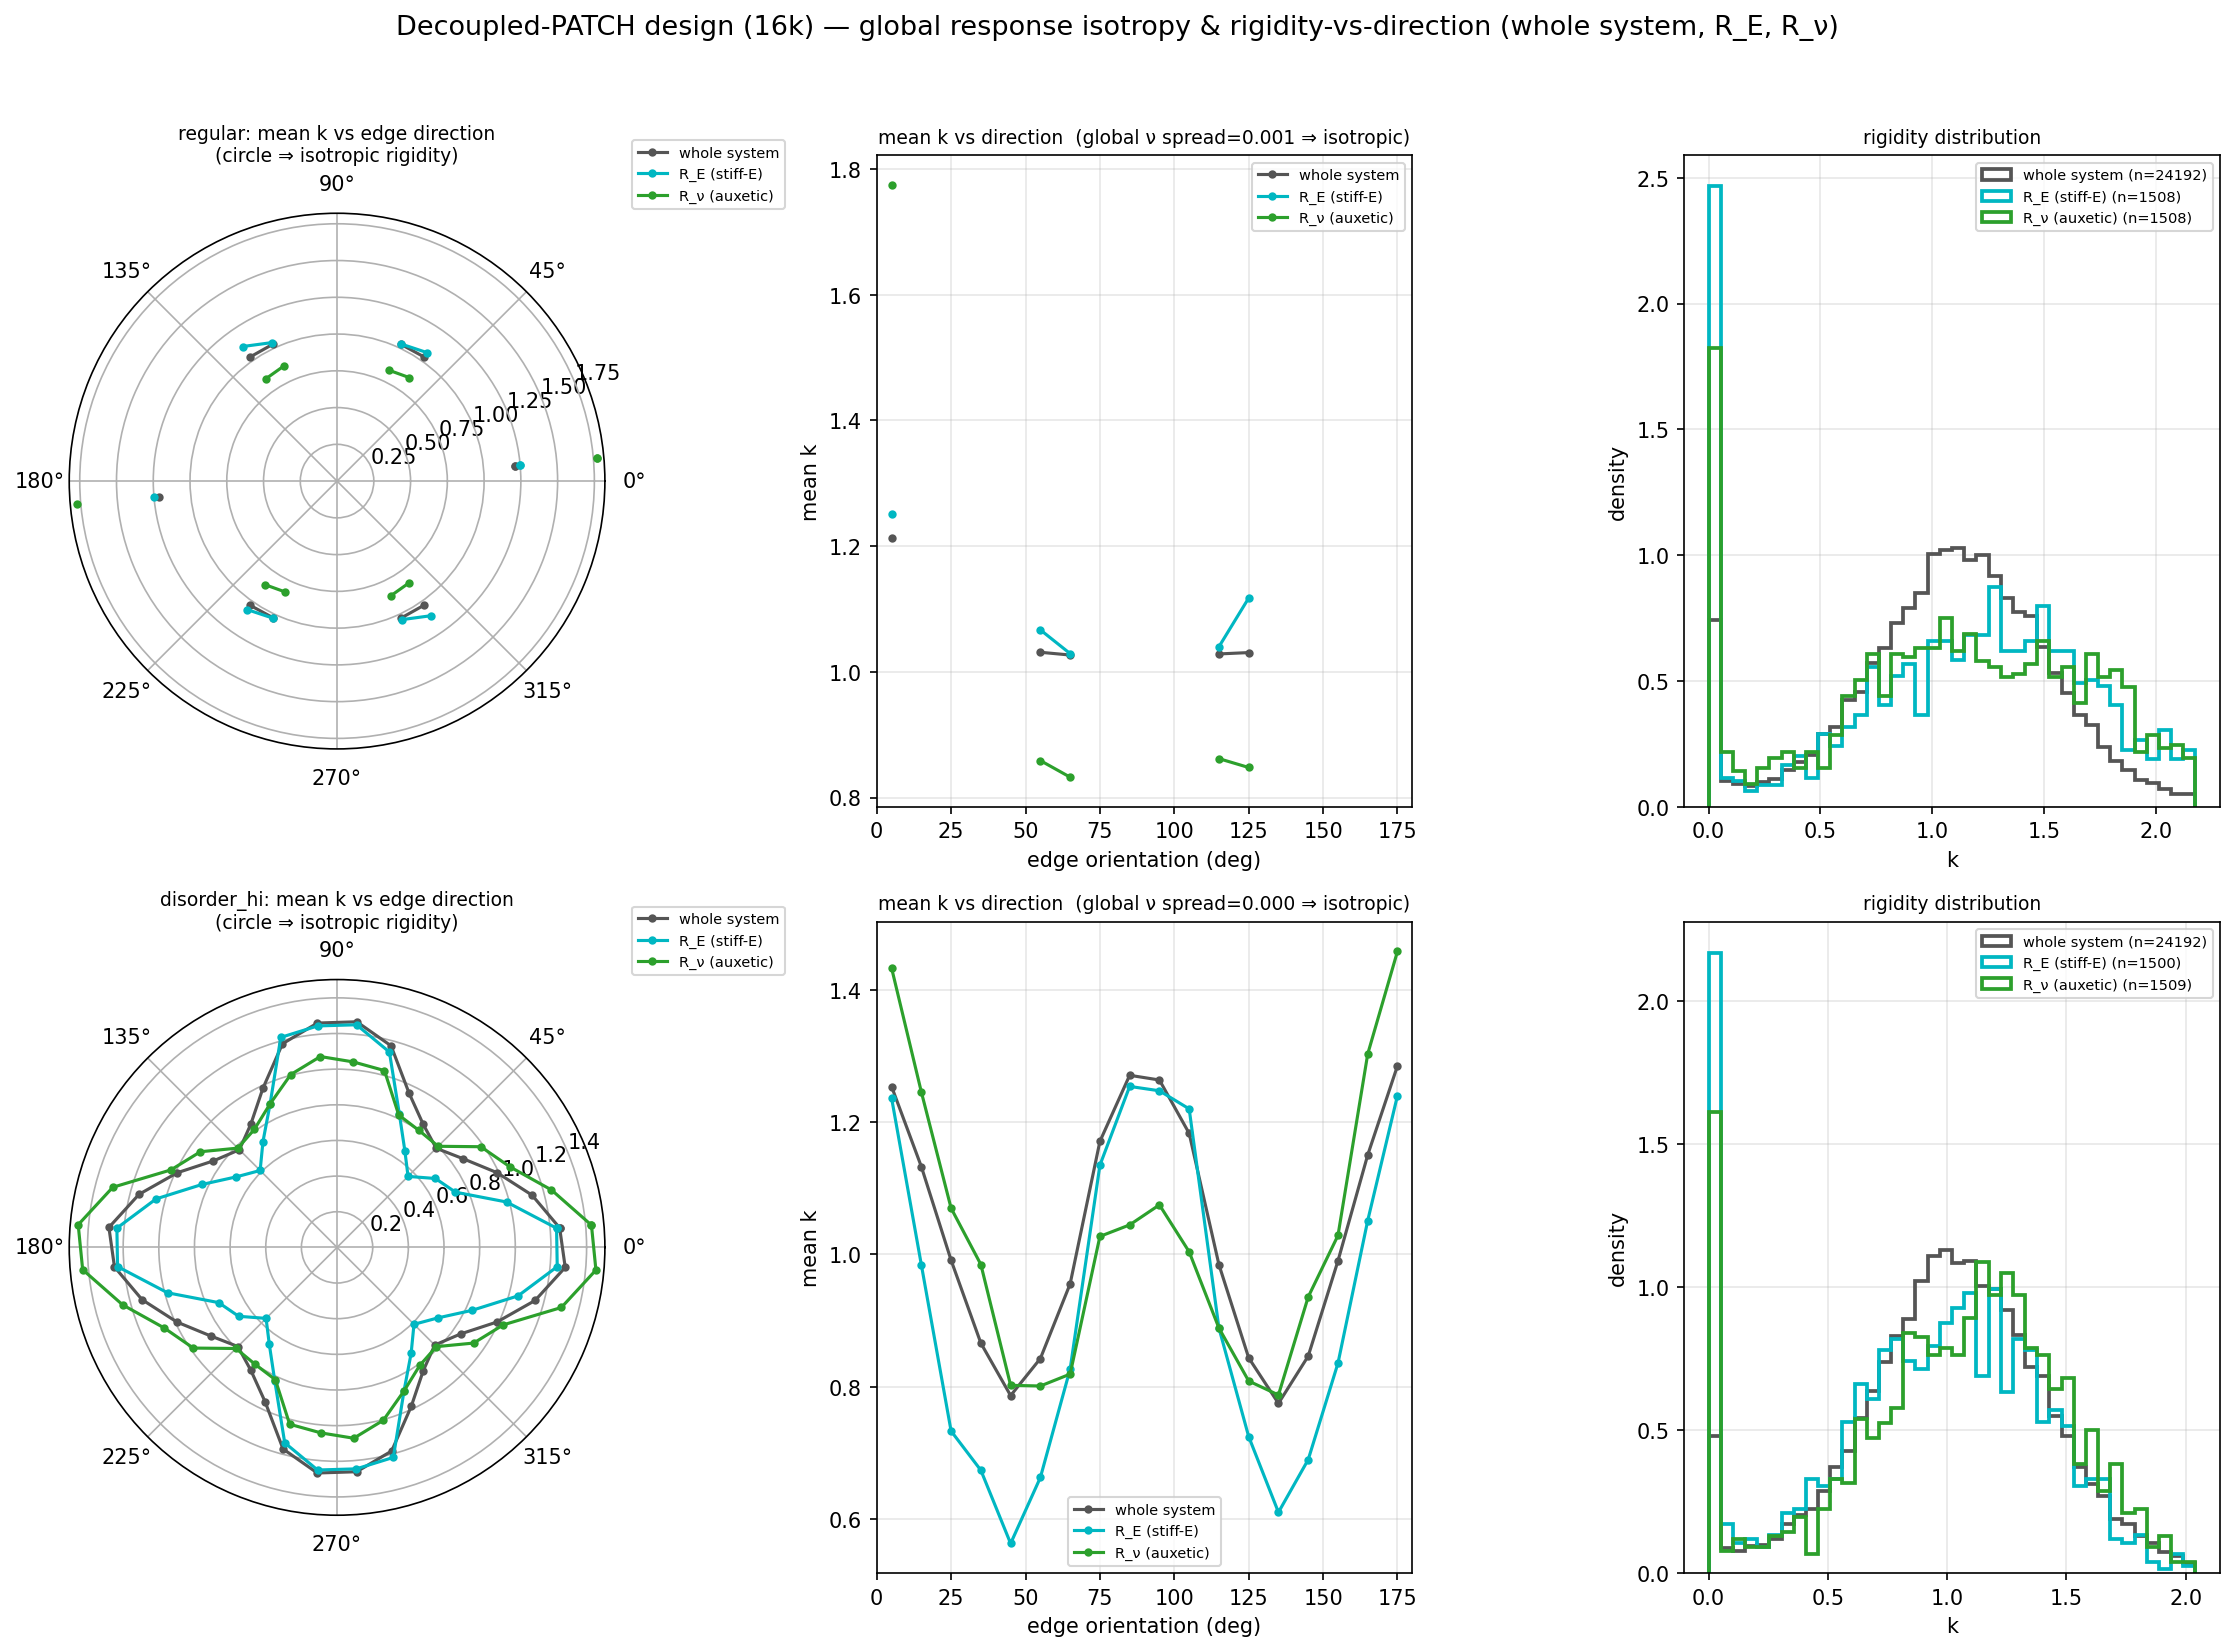
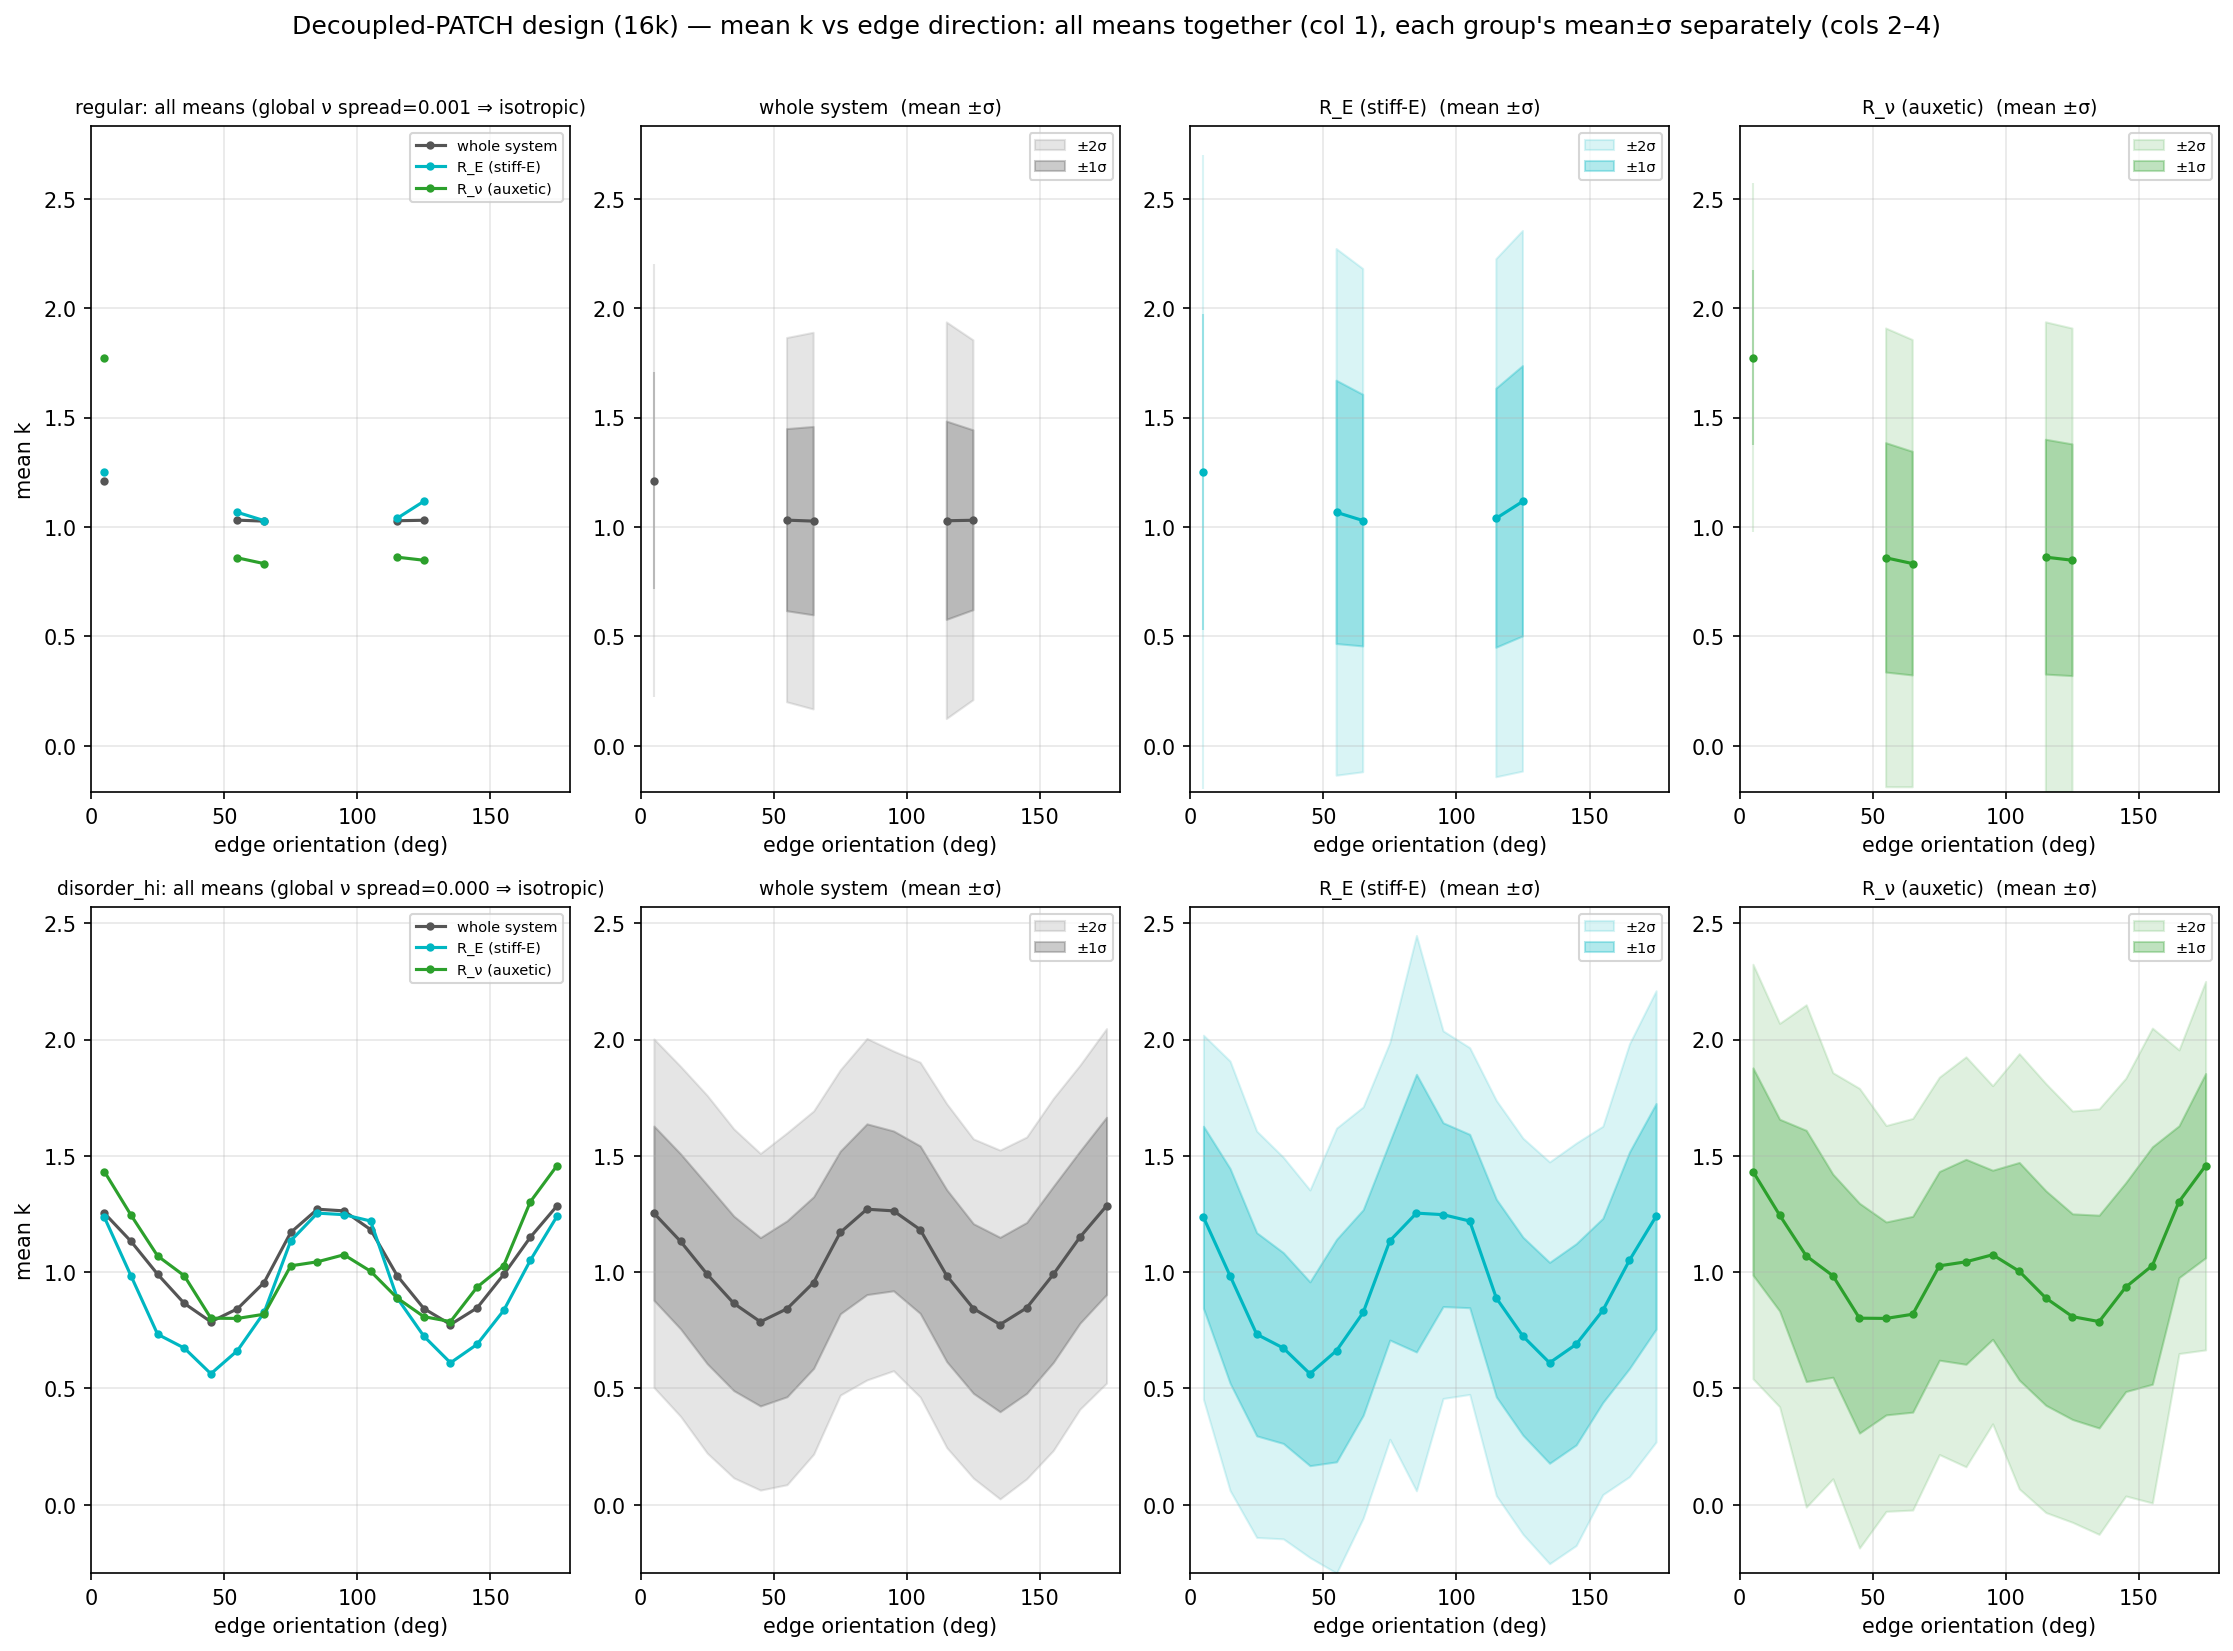
Rigidity-vs-direction: all means in one plot, each group's mean±σ in its own subplot
Per request: don't overlay the ±σ bands (too much shading). One combined panel with all group means
(no bands), then a separate panel per group (whole / R_E / R_nu) showing that group's mean ±1σ/±2σ.

diff --git a/Phase 3/verifications/large16k/make_rigidity_hist.py b/Phase 3/verifications/large16k/make_rigidity_hist.py
@@ -4,8 +4,8 @@ rigidity distributed evenly over edge DIRECTIONS (per patch and system-wide)?
 
 For each topology we (a) compute the global directional response ν(θ) (flat ⇒ isotropic), and
 (b) bin every edge by its orientation angle and show, for the whole system, the stiff-E region R_E,
-and the auxetic-ν region R_ν: the MEAN k vs direction (polar; a circle ⇒ no directional bias) and
-the k distribution (histogram). Loaded from the saved networks — no re-solve.
+and the auxetic-ν region R_ν: the MEAN k vs direction WITH ±1σ / ±2σ distribution bands (polar +
+linear) and the k distribution (histogram). Loaded from the saved networks — no re-solve.
 """
 import os, sys
 import numpy as np
@@ -21,11 +21,12 @@ ND = os.path.join(HERE, 'networks')
 TOPOS = ['regular', 'disorder_hi']
 NBIN = 18
 GCOL = {'whole system': '#555555', 'R_E (stiff-E)': '#00b7c2', 'R_ν (auxetic)': '#2ca02c'}
+EDG = np.linspace(0, np.pi, NBIN + 1)
+CEN = 0.5 * (EDG[:-1] + EDG[1:])
 
 
 def bond_dir(geo):
-    R = np.asarray(geo['bond_R'])
-    return np.mod(np.arctan2(R[:, 1], R[:, 0]), np.pi)               # edge orientation in [0,π)
+    R = np.asarray(geo['bond_R']); return np.mod(np.arctan2(R[:, 1], R[:, 0]), np.pi)
 
 
 def bond_mid(geo):
@@ -33,59 +34,59 @@ def bond_mid(geo):
 
 
 def in_circle(mid, spec):
-    c = np.asarray(spec['center'])
-    return ((mid - c) ** 2).sum(1) < spec['radius'] ** 2
+    c = np.asarray(spec['center']); return ((mid - c) ** 2).sum(1) < spec['radius'] ** 2
+
+
+def binned(k, ang, sel):
+    """mean and std of k per direction bin (restricted to `sel`)."""
+    m = np.full(NBIN, np.nan); s = np.full(NBIN, np.nan)
+    for i in range(NBIN):
+        b = sel & (ang >= EDG[i]) & (ang < EDG[i + 1])
+        if b.any():
+            m[i] = k[b].mean(); s[i] = k[b].std()
+    return m, s
 
 
 def main():
     fig = plt.figure(figsize=(15, 5.6 * len(TOPOS)))
-    edges_deg = np.degrees(np.linspace(0, np.pi, NBIN + 1))
-    centers = np.mod(np.linspace(0, np.pi, NBIN + 1)[:-1] + np.pi / (2 * NBIN), np.pi)
     for row, topo in enumerate(TOPOS):
         geo, k, C6, meta = C.load_network(os.path.join(ND, f'patch__{topo}.npz'))
         k = np.asarray(k); RE, RN = meta['region']
         ang = bond_dir(geo); mid = bond_mid(geo)
         groups = {'whole system': np.ones(len(k), bool),
                   'R_E (stiff-E)': in_circle(mid, RE), 'R_ν (auxetic)': in_circle(mid, RN)}
-        nu_th = C.nu_E_theta(C.region_phys_C6(geo, C6, None), C.ANG)[0]
-        iso = np.ptp(nu_th)
+        stats = {n: binned(k, ang, sel) for n, sel in groups.items()}
+        iso = np.ptp(C.nu_E_theta(C.region_phys_C6(geo, C6, None), C.ANG)[0])
+        deg = np.degrees(CEN)
+        ncol = 1 + len(groups)
+        axes = [fig.add_subplot(len(TOPOS), ncol, ncol * row + i + 1) for i in range(ncol)]
 
-        # polar: mean k vs edge direction (mirrored to [0,2π))
-        axp = fig.add_subplot(len(TOPOS), 3, 3 * row + 1, projection='polar')
-        for name, sel in groups.items():
-            mk = np.array([k[sel & (ang >= np.radians(edges_deg[i])) & (ang < np.radians(edges_deg[i + 1]))].mean()
-                           if (sel & (ang >= np.radians(edges_deg[i])) & (ang < np.radians(edges_deg[i + 1]))).any()
-                           else np.nan for i in range(NBIN)])
-            th = np.concatenate([centers, centers + np.pi, centers[:1]])
-            r = np.concatenate([mk, mk, mk[:1]])
-            axp.plot(th, r, '-o', ms=3, color=GCOL[name], label=name)
-        axp.set_title(f'{topo}: mean k vs edge direction\n(circle ⇒ isotropic rigidity)', fontsize=9)
-        axp.legend(fontsize=7, loc='upper right', bbox_to_anchor=(1.35, 1.15))
+        # ONE plot: all means together (no bands)
+        for name, (m, s) in stats.items():
+            axes[0].plot(deg, m, '-o', ms=3, color=GCOL[name], label=name)
+        axes[0].set_ylabel('mean k'); axes[0].set_title(
+            f'{topo}: all means (global ν spread={iso:.3f} ⇒ '
+            f'{"isotropic" if iso < 0.05 else "anisotropic"})', fontsize=9)
+        axes[0].legend(fontsize=7)
 
-        # mean k vs direction, linear
-        axl = fig.add_subplot(len(TOPOS), 3, 3 * row + 2)
-        for name, sel in groups.items():
-            mk = np.array([k[sel & (ang >= np.radians(edges_deg[i])) & (ang < np.radians(edges_deg[i + 1]))].mean()
-                           if (sel & (ang >= np.radians(edges_deg[i])) & (ang < np.radians(edges_deg[i + 1]))).any()
-                           else np.nan for i in range(NBIN)])
-            axl.plot(np.degrees(centers), mk, '-o', ms=3, color=GCOL[name], label=name)
-        axl.set_xlabel('edge orientation (deg)'); axl.set_ylabel('mean k'); axl.set_xlim(0, 180)
-        axl.set_title(f'mean k vs direction  (global ν spread={iso:.3f} ⇒ '
-                      f'{"isotropic" if iso < 0.05 else "anisotropic"})', fontsize=9)
-        axl.grid(alpha=.3); axl.legend(fontsize=7)
+        # SEPARATE plot per group: that group's mean + ±1σ / ±2σ spread
+        for ax, (name, (m, s)) in zip(axes[1:], stats.items()):
+            ax.fill_between(deg, m - 2 * s, m + 2 * s, color=GCOL[name], alpha=0.15, label='±2σ')
+            ax.fill_between(deg, m - s, m + s, color=GCOL[name], alpha=0.30, label='±1σ')
+            ax.plot(deg, m, '-o', ms=3, color=GCOL[name])
+            ax.set_title(f'{name}  (mean ±σ)', fontsize=9); ax.legend(fontsize=7)
+        for ax in axes:
+            ax.set_xlabel('edge orientation (deg)'); ax.set_xlim(0, 180); ax.grid(alpha=.3)
+        lo = min(np.nanmin(m - 2 * s) for (m, s) in stats.values())
+        hi = max(np.nanmax(m + 2 * s) for (m, s) in stats.values())
+        for ax in axes:
+            ax.set_ylim(min(0, lo), hi * 1.05)
+        print(f"  {topo}: nu spread={iso:.3f}  mean±std k whole={k.mean():.2f}±{k.std():.2f} "
+              f"R_E={k[groups['R_E (stiff-E)']].mean():.2f}±{k[groups['R_E (stiff-E)']].std():.2f} "
+              f"R_nu={k[groups['R_ν (auxetic)']].mean():.2f}±{k[groups['R_ν (auxetic)']].std():.2f}", flush=True)
 
-        # k distribution histograms per group
-        axh = fig.add_subplot(len(TOPOS), 3, 3 * row + 3)
-        for name, sel in groups.items():
-            axh.hist(k[sel], bins=40, range=(0, np.percentile(k, 99)), histtype='step', density=True,
-                     lw=1.8, color=GCOL[name], label=f'{name} (n={sel.sum()})')
-        axh.set_xlabel('k'); axh.set_ylabel('density'); axh.set_title('rigidity distribution', fontsize=9)
-        axh.grid(alpha=.3); axh.legend(fontsize=7)
-        print(f"  {topo}: global nu spread={iso:.3f}  mean k whole={k.mean():.2f} "
-              f"R_E={k[groups['R_E (stiff-E)']].mean():.2f} R_nu={k[groups['R_ν (auxetic)']].mean():.2f}", flush=True)
-
-    fig.suptitle('Decoupled-PATCH design (16k) — global response isotropy & rigidity-vs-direction '
-                 '(whole system, R_E, R_ν)', fontsize=13)
+    fig.suptitle('Decoupled-PATCH design (16k) — mean k vs edge direction: all means together (col 1), '
+                 'each group\'s mean±σ separately (cols 2–4)', fontsize=12)
     plt.tight_layout(rect=[0, 0, 1, 0.97])
     plt.savefig(os.path.join(HERE, 'large16k_rigidity_hist.png'), dpi=150, bbox_inches='tight')
     plt.close(); print('saved large16k_rigidity_hist.png')
